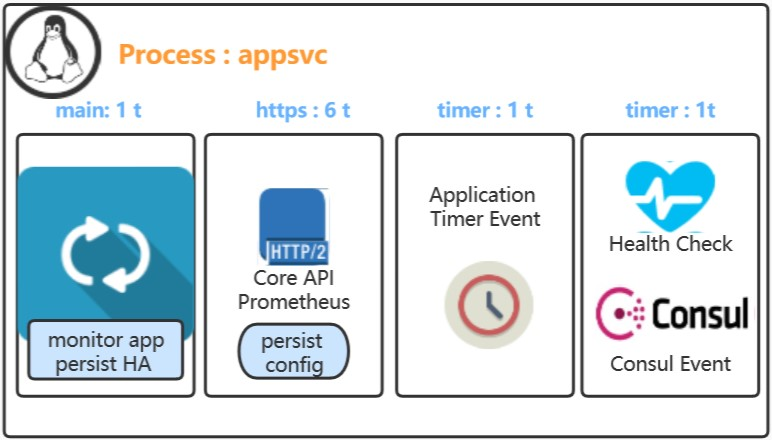
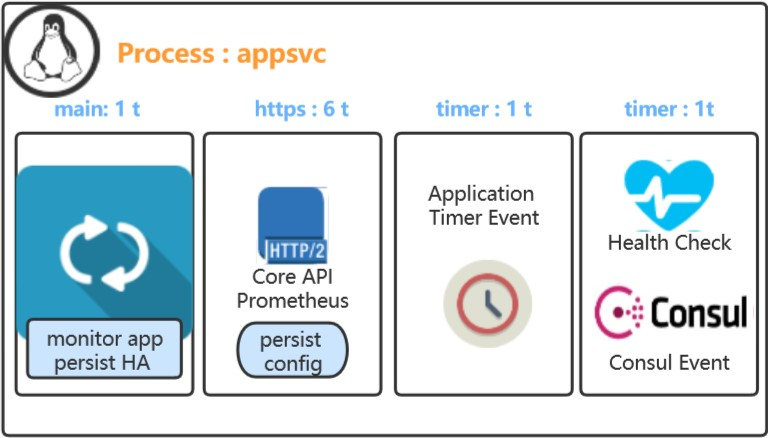
update threadmodel.jpg

diff --git a/README.md b/README.md
@@ -448,4 +448,4 @@ cd app-manager
 make
 ```
 - Thread model
-<div align=center><img src="https://github.com/laoshanxi/app-manager/raw/master/doc/threadmodel.jpg" width=500 height=255 align=center /></div>
+<div align=center><img src="https://github.com/laoshanxi/app-manager/raw/master/doc/threadmodel.jpg" width=512 height=292 align=center /></div>
